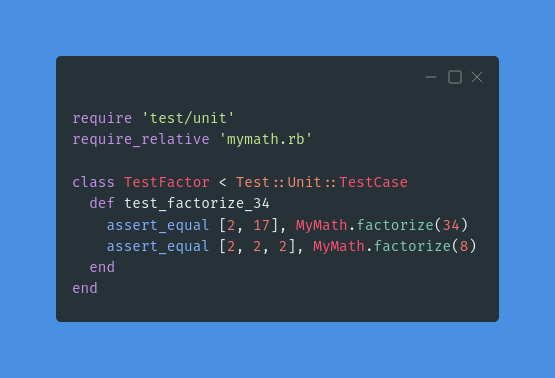
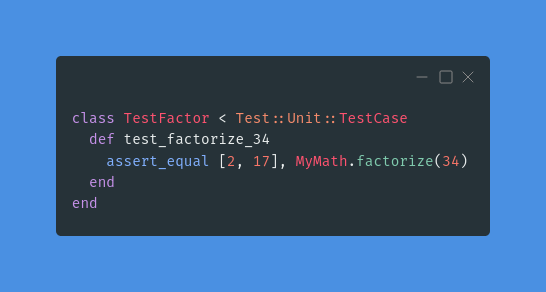
[U] .

diff --git a/charlas/teuton/eslibre22/eslibre22.md b/charlas/teuton/eslibre22/eslibre22.md
@@ -81,23 +81,8 @@ require_relative 'mymath.rb'
 class TestFactor < Test::Unit::TestCase
   def test_factorize_34
     assert_equal [2, 17], MyMath.factorize(34)
-    assert_equal [2, 2, 2], MyMath.factorize(8)
   end
 end
-```
-
-Salida del test:
-
-```bash
-Loaded suite ./examples/factors/test_factorize1
-Started
-.
-Finished in 0.000458562 seconds.
--------------------------------------------------------------------------------
-1 tests, 2 assertions, 0 failures, 0 errors, 0 pendings, 0 omissions, 0 notifications
-100% passed
--------------------------------------------------------------------------------
-2180.73 tests/s, 4361.46 assertions/s
 ```
 
 # 8. Concurso de programación
@@ -123,11 +108,17 @@ Instalar TEUTON:
 
 # 11. Test local
 
+Target/run/expect
 
-10. Target/run/expect
-11. Ventajas de Teuton: DSL sencillo
+# 12. DSL sencillo
+
+# 13. Test remoto
+
+![](images/teuton-esquema.svg)
+
 12. Ejemplo: usuarios/carpetas/software
 13. Resultados
+
 14. Test remoto
 15. Resultados
 16. ¿qué más se puede hacer?
